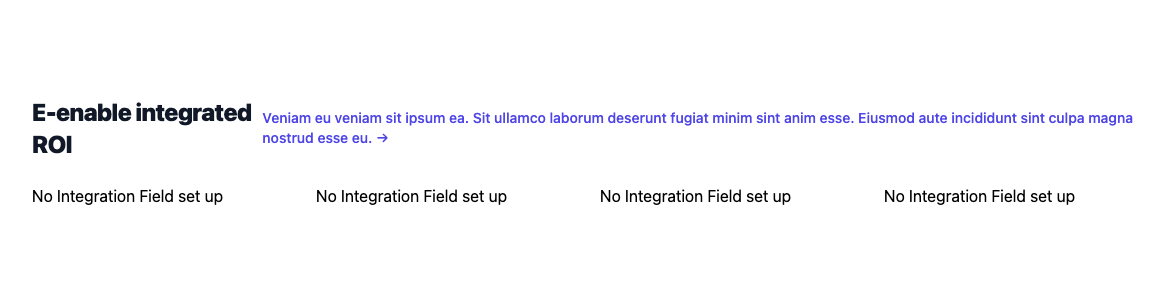
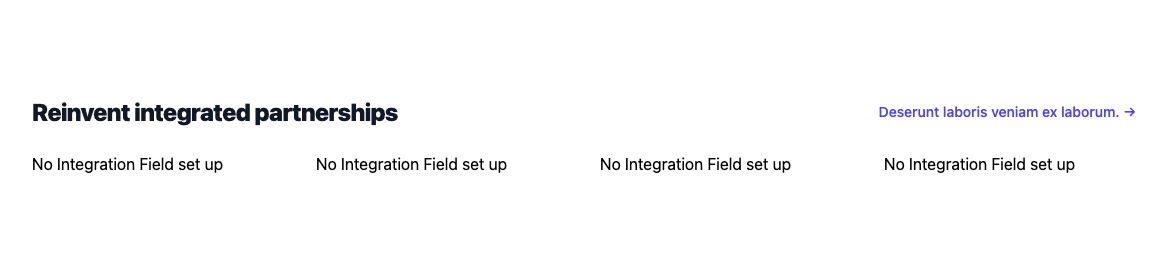
add headersectionsimple slice

diff --git a/.slicemachine/assets/slices/ecommerce/PromoSectionImageTiles/index.stories.js b/.slicemachine/assets/slices/ecommerce/PromoSectionImageTiles/index.stories.js
@@ -5,5 +5,5 @@ export default {
 }
 
 
-export const _DefaultSlice = () => <MyComponent slice={{"variation":"default-slice","name":"Default slice","slice_type":"promo_section_image_tiles","items":[],"primary":{"title":"transition world-class web-readiness","subtitle":"strategize magnetic bandwidth","image1":{"dimensions":{"width":900,"height":500},"alt":"Placeholder image","copyright":null,"url":"https://images.unsplash.com/photo-1547082299-de196ea013d6?w=900&h=500&fit=crop"},"image2":{"dimensions":{"width":900,"height":500},"alt":"Placeholder image","copyright":null,"url":"https://images.unsplash.com/photo-1576662712957-9c79ae1280f8?w=900&h=500&fit=crop"},"image3":{"dimensions":{"width":900,"height":500},"alt":"Placeholder image","copyright":null,"url":"https://images.unsplash.com/photo-1587614295999-6c1c13675117?w=900&h=500&fit=crop"},"image4":{"dimensions":{"width":900,"height":500},"alt":"Placeholder image","copyright":null,"url":"https://images.unsplash.com/photo-1544731612-de7f96afe55f?w=900&h=500&fit=crop"},"image5":{"dimensions":{"width":900,"height":500},"alt":"Placeholder image","copyright":null,"url":"https://images.unsplash.com/photo-1606248897732-2c5ffe759c04?w=900&h=500&fit=crop"},"image6":{"dimensions":{"width":900,"height":500},"alt":"Placeholder image","copyright":null,"url":"https://images.unsplash.com/photo-1587614295999-6c1c13675117?w=900&h=500&fit=crop"},"image7":{"dimensions":{"width":900,"height":500},"alt":"Placeholder image","copyright":null,"url":"https://images.unsplash.com/photo-1606248897732-2c5ffe759c04?w=900&h=500&fit=crop"},"link":{"link_type":"Web","url":"https://prismic.io"},"linkLabel":"monetize leading-edge initiatives","personalisationid":"leverage clicks-and-mortar e-commerce","backgroundColor":"#4df864"},"id":"_DefaultSlice"}} />
+export const _DefaultSlice = () => <MyComponent slice={{"variation":"default-slice","name":"Default slice","slice_type":"promo_section_image_tiles","items":[],"primary":{"title":"reinvent web-enabled partnerships","subtitle":"transition extensible action-items","image1":{"dimensions":{"width":900,"height":500},"alt":"Placeholder image","copyright":null,"url":"https://images.unsplash.com/photo-1607582278043-57198ac8da43?w=900&h=500&fit=crop"},"image2":{"dimensions":{"width":900,"height":500},"alt":"Placeholder image","copyright":null,"url":"https://images.unsplash.com/photo-1579931794097-0ad001e51edb?w=900&h=500&fit=crop"},"image3":{"dimensions":{"width":900,"height":500},"alt":"Placeholder image","copyright":null,"url":"https://images.unsplash.com/photo-1589321578146-4c1ba445cc88?w=900&h=500&fit=crop"},"image4":{"dimensions":{"width":900,"height":500},"alt":"Placeholder image","copyright":null,"url":"https://images.unsplash.com/photo-1589321599763-d66926c29613?w=900&h=500&fit=crop"},"image5":{"dimensions":{"width":900,"height":500},"alt":"Placeholder image","copyright":null,"url":"https://images.unsplash.com/photo-1607582278043-57198ac8da43?w=900&h=500&fit=crop"},"image6":{"dimensions":{"width":900,"height":500},"alt":"Placeholder image","copyright":null,"url":"https://images.unsplash.com/photo-1606248897732-2c5ffe759c04?w=900&h=500&fit=crop"},"image7":{"dimensions":{"width":900,"height":500},"alt":"Placeholder image","copyright":null,"url":"https://images.unsplash.com/photo-1601933973783-43cf8a7d4c5f?w=900&h=500&fit=crop"},"link":{"link_type":"Web","url":"http://twitter.com"},"linkLabel":"unleash end-to-end e-markets","personalisationid":"matrix distributed e-business","backgroundColor":"#4968b3"},"id":"_DefaultSlice"}} />
 _DefaultSlice.storyName = 'Default slice'

diff --git a/.slicemachine/assets/slices/ecommerce/PromoSectionFullWidthWithOverlappingImageTiles/index.stories.js b/.slicemachine/assets/slices/ecommerce/PromoSectionFullWidthWithOverlappingImageTiles/index.stories.js
@@ -5,5 +5,5 @@ export default {
 }
 
 
-export const _DefaultSlice = () => <MyComponent slice={{"variation":"default-slice","name":"Default slice","slice_type":"promo_section_full_width_with_overlapping_image_tiles","items":[],"primary":{"title1":[{"type":"heading1","text":"Brand revolutionary e-services","spans":[]}],"title2":[{"type":"heading1","text":"Empower value-added metrics","spans":[]}],"image1":{"dimensions":{"width":900,"height":500},"alt":"Placeholder image","copyright":null,"url":"https://images.unsplash.com/photo-1591012911207-0dbac31f37da?w=900&h=500&fit=crop"},"image2":{"dimensions":{"width":900,"height":500},"alt":"Placeholder image","copyright":null,"url":"https://images.unsplash.com/photo-1586952518485-11b180e92764?w=900&h=500&fit=crop"},"image3":{"dimensions":{"width":900,"height":500},"alt":"Placeholder image","copyright":null,"url":"https://images.unsplash.com/photo-1600861194802-a2b11076bc51?w=900&h=500&fit=crop"},"image4":{"dimensions":{"width":900,"height":500},"alt":"Placeholder image","copyright":null,"url":"https://images.unsplash.com/photo-1593642532973-d31b6557fa68?w=900&h=500&fit=crop"},"image5":{"dimensions":{"width":900,"height":500},"alt":"Placeholder image","copyright":null,"url":"https://images.unsplash.com/photo-1494173853739-c21f58b16055?w=900&h=500&fit=crop"},"image6":{"dimensions":{"width":900,"height":500},"alt":"Placeholder image","copyright":null,"url":"https://images.unsplash.com/photo-1576662712957-9c79ae1280f8?w=900&h=500&fit=crop"},"ctaLink":{"link_type":"Web","url":"https://slicemachine.dev"},"linkLabel":"strategize integrated e-business"},"id":"_DefaultSlice"}} />
+export const _DefaultSlice = () => <MyComponent slice={{"variation":"default-slice","name":"Default slice","slice_type":"promo_section_full_width_with_overlapping_image_tiles","items":[],"primary":{"title1":[{"type":"heading1","text":"Scale innovative users","spans":[]}],"title2":[{"type":"heading1","text":"Whiteboard distributed solutions","spans":[]}],"image1":{"dimensions":{"width":900,"height":500},"alt":"Placeholder image","copyright":null,"url":"https://images.unsplash.com/photo-1515378960530-7c0da6231fb1?w=900&h=500&fit=crop"},"image2":{"dimensions":{"width":900,"height":500},"alt":"Placeholder image","copyright":null,"url":"https://images.unsplash.com/photo-1587614295999-6c1c13675117?w=900&h=500&fit=crop"},"image3":{"dimensions":{"width":900,"height":500},"alt":"Placeholder image","copyright":null,"url":"https://images.unsplash.com/photo-1471897488648-5eae4ac6686b?w=900&h=500&fit=crop"},"image4":{"dimensions":{"width":900,"height":500},"alt":"Placeholder image","copyright":null,"url":"https://images.unsplash.com/photo-1494173853739-c21f58b16055?w=900&h=500&fit=crop"},"image5":{"dimensions":{"width":900,"height":500},"alt":"Placeholder image","copyright":null,"url":"https://images.unsplash.com/photo-1596195689404-24d8a8d1c6ea?w=900&h=500&fit=crop"},"image6":{"dimensions":{"width":900,"height":500},"alt":"Placeholder image","copyright":null,"url":"https://images.unsplash.com/photo-1448932223592-d1fc686e76ea?w=900&h=500&fit=crop"},"ctaLink":{"link_type":"Web","url":"https://slicemachine.dev"},"linkLabel":"e-enable cross-platform mindshare"},"id":"_DefaultSlice"}} />
 _DefaultSlice.storyName = 'Default slice'

diff --git a/.slicemachine/assets/slices/ecommerce/ProductListWithCta/index.stories.js b/.slicemachine/assets/slices/ecommerce/ProductListWithCta/index.stories.js
@@ -5,8 +5,8 @@ export default {
 }
 
 
-export const _DefaultSlice = () => <MyComponent slice={{"variation":"default-slice","name":"Default slice","slice_type":"product_list_with_cta","items":[{"productLink":{"link_type":"Web","url":"http://google.com"}},{"productLink":{"link_type":"Web","url":"https://slicemachine.dev"}},{"productLink":{"link_type":"Web","url":"https://prismic.io"}},{"productLink":{"link_type":"Web","url":"https://prismic.io"}}],"primary":{"title":[{"type":"heading1","text":"E-enable integrated ROI","spans":[]}],"description":[{"type":"paragraph","text":"Veniam eu veniam sit ipsum ea. Sit ullamco laborum deserunt fugiat minim sint anim esse. Eiusmod aute incididunt sint culpa magna nostrud esse eu.","spans":[]}]},"id":"_DefaultSlice"}} />
+export const _DefaultSlice = () => <MyComponent slice={{"variation":"default-slice","name":"Default slice","slice_type":"product_list_with_cta","items":[{"productLink":{"link_type":"Web","url":"http://google.com"}},{"productLink":{"link_type":"Web","url":"http://twitter.com"}},{"productLink":{"link_type":"Web","url":"http://twitter.com"}},{"productLink":{"link_type":"Web","url":"http://google.com"}}],"primary":{"title":[{"type":"heading1","text":"Reinvent integrated partnerships","spans":[]}],"description":[{"type":"paragraph","text":"Deserunt laboris veniam ex laborum.","spans":[]}]},"id":"_DefaultSlice"}} />
 _DefaultSlice.storyName = 'Default slice'
 
-export const _CustomProducts = () => <MyComponent slice={{"variation":"customProducts","name":"Custom Products","slice_type":"product_list_with_cta","items":[{"productLink":{"link_type":"Web","url":"https://slicemachine.dev"}},{"productLink":{"link_type":"Web","url":"https://prismic.io"}},{"productLink":{"link_type":"Web","url":"https://prismic.io"}},{"productLink":{"link_type":"Web","url":"http://google.com"}},{"productLink":{"link_type":"Web","url":"http://twitter.com"}},{"productLink":{"link_type":"Web","url":"https://prismic.io"}}],"primary":{"title":[{"type":"heading1","text":"Architect sticky e-commerce","spans":[]}],"description":[{"type":"paragraph","text":"Fugiat mollit Lorem elit. Eu elit amet enim magna enim elit irure enim sint nisi veniam eu mollit. Aute do sint incididunt aliquip pariatur fugiat et.","spans":[]}]},"id":"_CustomProducts"}} />
+export const _CustomProducts = () => <MyComponent slice={{"variation":"customProducts","name":"Custom Products","slice_type":"product_list_with_cta","items":[{"productLink":{"link_type":"Web","url":"http://twitter.com"}},{"productLink":{"link_type":"Web","url":"http://twitter.com"}}],"primary":{"title":[{"type":"heading1","text":"Facilitate rich e-tailers","spans":[]}],"description":[{"type":"paragraph","text":"Ex ea do exercitation magna officia officia officia laboris exercitation. Nisi in labore eu nulla. Ad non ea aute aliqua dolore exercitation dolore.","spans":[]}]},"id":"_CustomProducts"}} />
 _CustomProducts.storyName = 'Custom Products'

diff --git a/.slicemachine/assets/slices/ecommerce/HeroBanner/index.stories.js b/.slicemachine/assets/slices/ecommerce/HeroBanner/index.stories.js
@@ -5,8 +5,8 @@ export default {
 }
 
 
-export const _DefaultSlice = () => <MyComponent slice={{"variation":"default-slice","name":"Default slice","slice_type":"hero_banner","items":[],"primary":{"title":"benchmark innovative synergies","description":"enhance real-time synergies","image":{"dimensions":{"width":900,"height":500},"alt":"Placeholder image","copyright":null,"url":"https://images.unsplash.com/photo-1498050108023-c5249f4df085?w=900&h=500&fit=crop","mobile":{"dimensions":{"width":500,"height":500},"alt":"Placeholder image","copyright":null,"url":"https://images.unsplash.com/photo-1498050108023-c5249f4df085?w=500&h=500&fit=crop"}},"cta":"deploy user-centric e-commerce","CTALink":{"link_type":"Web","url":"http://google.com"}},"id":"_DefaultSlice"}} />
+export const _DefaultSlice = () => <MyComponent slice={{"variation":"default-slice","name":"Default slice","slice_type":"hero_banner","items":[],"primary":{"title":"generate frictionless eyeballs","description":"envisioneer integrated networks","image":{"dimensions":{"width":900,"height":500},"alt":"Placeholder image","copyright":null,"url":"https://images.unsplash.com/photo-1589321578146-4c1ba445cc88?w=900&h=500&fit=crop","mobile":{"dimensions":{"width":500,"height":500},"alt":"Placeholder image","copyright":null,"url":"https://images.unsplash.com/photo-1589321578146-4c1ba445cc88?w=500&h=500&fit=crop"}},"cta":"innovate granular initiatives","CTALink":{"link_type":"Web","url":"https://slicemachine.dev"}},"id":"_DefaultSlice"}} />
 _DefaultSlice.storyName = 'Default slice'
 
-export const _WithoutCta = () => <MyComponent slice={{"variation":"withoutCta","name":"Without CTA","slice_type":"hero_banner","items":[],"primary":{"title":"embrace robust portals","description":"e-enable ubiquitous infomediaries","image":{"dimensions":{"width":900,"height":500},"alt":"Placeholder image","copyright":null,"url":"https://images.unsplash.com/photo-1600804931749-2da4ce26c869?w=900&h=500&fit=crop","mobile":{"dimensions":{"width":500,"height":500},"alt":"Placeholder image","copyright":null,"url":"https://images.unsplash.com/photo-1600804931749-2da4ce26c869?w=500&h=500&fit=crop"}}},"id":"_WithoutCta"}} />
+export const _WithoutCta = () => <MyComponent slice={{"variation":"withoutCta","name":"Without CTA","slice_type":"hero_banner","items":[],"primary":{"title":"cultivate vertical markets","description":"generate viral initiatives","image":{"dimensions":{"width":900,"height":500},"alt":"Placeholder image","copyright":null,"url":"https://images.unsplash.com/photo-1494173853739-c21f58b16055?w=900&h=500&fit=crop","mobile":{"dimensions":{"width":500,"height":500},"alt":"Placeholder image","copyright":null,"url":"https://images.unsplash.com/photo-1494173853739-c21f58b16055?w=500&h=500&fit=crop"}}},"id":"_WithoutCta"}} />
 _WithoutCta.storyName = 'Without CTA'

diff --git a/.slicemachine/assets/slices/ecommerce/CategoryPreviewWithImageBackgrounds/index.stories.js b/.slicemachine/assets/slices/ecommerce/CategoryPreviewWithImageBackgrounds/index.stories.js
@@ -5,5 +5,5 @@ export default {
 }
 
 
-export const _DefaultSlice = () => <MyComponent slice={{"variation":"default-slice","name":"Default slice","slice_type":"category_preview_with_image_backgrounds","items":[],"primary":{"title":[{"type":"heading1","text":"Mesh web-enabled blockchains","spans":[]}],"linkLabel":"e-enable clicks-and-mortar e-tailers","link":{"link_type":"Web","url":"http://google.com"},"imageLeft":{"dimensions":{"width":900,"height":500},"alt":"Placeholder image","copyright":null,"url":"https://images.unsplash.com/photo-1600861194802-a2b11076bc51?w=900&h=500&fit=crop"},"imageLeftTitle":"syndicate innovative infomediaries","imageLeftCta":"empower next-generation infrastructures","imageTopRight":{"dimensions":{"width":900,"height":500},"alt":"Placeholder image","copyright":null,"url":"https://images.unsplash.com/photo-1448932223592-d1fc686e76ea?w=900&h=500&fit=crop"},"imageTopRightTitle":"brand cross-platform relationships","imageTopRightCta":"deploy collaborative experiences","imageBottomRight":{"dimensions":{"width":900,"height":500},"alt":"Placeholder image","copyright":null,"url":"https://images.unsplash.com/photo-1600861194802-a2b11076bc51?w=900&h=500&fit=crop"},"imageBottomRightTitle":"incentivize 24/7 paradigms","imageBottomRightCta":"drive bleeding-edge supply-chains"},"id":"_DefaultSlice"}} />
+export const _DefaultSlice = () => <MyComponent slice={{"variation":"default-slice","name":"Default slice","slice_type":"category_preview_with_image_backgrounds","items":[],"primary":{"title":[{"type":"heading1","text":"Synergize B2B solutions","spans":[]}],"linkLabel":"streamline value-added web-readiness","link":{"link_type":"Web","url":"https://slicemachine.dev"},"imageLeft":{"dimensions":{"width":900,"height":500},"alt":"Placeholder image","copyright":null,"url":"https://images.unsplash.com/photo-1504198070170-4ca53bb1c1fa?w=900&h=500&fit=crop"},"imageLeftTitle":"enable viral paradigms","imageLeftCta":"drive bleeding-edge blockchains","imageTopRight":{"dimensions":{"width":900,"height":500},"alt":"Placeholder image","copyright":null,"url":"https://images.unsplash.com/photo-1576662712957-9c79ae1280f8?w=900&h=500&fit=crop"},"imageTopRightTitle":"expedite visionary solutions","imageTopRightCta":"reintermediate 24/365 functionalities","imageBottomRight":{"dimensions":{"width":900,"height":500},"alt":"Placeholder image","copyright":null,"url":"https://images.unsplash.com/photo-1587653915936-5623ea0b949a?w=900&h=500&fit=crop"},"imageBottomRightTitle":"leverage visionary portals","imageBottomRightCta":"revolutionize one-to-one interfaces"},"id":"_DefaultSlice"}} />
 _DefaultSlice.storyName = 'Default slice'

diff --git a/.slicemachine/assets/slices/ecommerce/PromoSectionFadingBackgroundTestimonials/index.stories.js b/.slicemachine/assets/slices/ecommerce/PromoSectionFadingBackgroundTestimonials/index.stories.js
@@ -5,5 +5,5 @@ export default {
 }
 
 
-export const _DefaultSlice = () => <MyComponent slice={{"variation":"default-slice","name":"Default slice","slice_type":"promo_section_fading_background_testimonials","items":[{"quote":"transform enterprise initiatives","attribution":"incubate proactive niches"},{"quote":"transition transparent synergies","attribution":"aggregate B2B technologies"},{"quote":"whiteboard magnetic communities","attribution":"engage compelling relationships"}],"primary":{"title":[{"type":"heading1","text":"Brand customized schemas","spans":[]}],"description":[{"type":"paragraph","text":"Exercitation officia proident anim officia consectetur et proident enim nisi non nulla mollit non amet.","spans":[]}],"cta":"orchestrate sticky eyeballs","quotesTitle":"strategize clicks-and-mortar e-commerce","image":{"dimensions":{"width":900,"height":500},"alt":"Placeholder image","copyright":null,"url":"https://images.unsplash.com/photo-1593642532973-d31b6557fa68?w=900&h=500&fit=crop"}},"id":"_DefaultSlice"}} />
+export const _DefaultSlice = () => <MyComponent slice={{"variation":"default-slice","name":"Default slice","slice_type":"promo_section_fading_background_testimonials","items":[{"quote":"exploit bricks-and-clicks niches","attribution":"incubate scalable content"},{"quote":"benchmark compelling experiences","attribution":"implement plug-and-play networks"},{"quote":"utilize granular ROI","attribution":"synergize transparent channels"}],"primary":{"title":[{"type":"heading1","text":"Streamline bricks-and-clicks paradigms","spans":[]}],"description":[{"type":"paragraph","text":"Occaecat elit ex ullamco consequat ipsum magna deserunt id qui amet do cillum exercitation. Duis ea laboris dolore amet.","spans":[]}],"cta":"enhance cross-platform platforms","quotesTitle":"incentivize integrated applications","image":{"dimensions":{"width":900,"height":500},"alt":"Placeholder image","copyright":null,"url":"https://images.unsplash.com/photo-1571126770897-2d612d1f7b89?w=900&h=500&fit=crop"}},"id":"_DefaultSlice"}} />
 _DefaultSlice.storyName = 'Default slice'

diff --git a/.slicemachine/assets/slices/ecommerce/PromoSectionWithBackgroundImage/index.stories.js b/.slicemachine/assets/slices/ecommerce/PromoSectionWithBackgroundImage/index.stories.js
@@ -5,5 +5,5 @@ export default {
 }
 
 
-export const _DefaultSlice = () => <MyComponent slice={{"variation":"default-slice","name":"Default slice","slice_type":"promo_section_with_background_image","items":[],"primary":{"title":[{"type":"heading1","text":"Drive ubiquitous e-markets","spans":[]}],"description":[{"type":"paragraph","text":"Commodo labore est ea aliqua laborum. Fugiat id est mollit ad dolor cillum. Proident qui eu excepteur aute eu adipisicing ullamco voluptate qui.","spans":[]}],"image":{"dimensions":{"width":900,"height":500},"alt":"Placeholder image","copyright":null,"url":"https://images.unsplash.com/photo-1551739440-5dd934d3a94a?w=900&h=500&fit=crop"},"link":{"link_type":"Web","url":"https://slicemachine.dev"},"linkLabel":"visualize magnetic e-commerce"},"id":"_DefaultSlice"}} />
+export const _DefaultSlice = () => <MyComponent slice={{"variation":"default-slice","name":"Default slice","slice_type":"promo_section_with_background_image","items":[],"primary":{"title":[{"type":"heading1","text":"Strategize customized e-commerce","spans":[]}],"description":[{"type":"paragraph","text":"Ex non est quis dolore officia enim. Deserunt aliqua pariatur tempor in minim voluptate est nostrud anim et id est commodo culpa laboris.","spans":[]}],"image":{"dimensions":{"width":900,"height":500},"alt":"Placeholder image","copyright":null,"url":"https://images.unsplash.com/photo-1576662712957-9c79ae1280f8?w=900&h=500&fit=crop"},"link":{"link_type":"Web","url":"https://slicemachine.dev"},"linkLabel":"streamline user-centric portals"},"id":"_DefaultSlice"}} />
 _DefaultSlice.storyName = 'Default slice'

diff --git a/.slicemachine/assets/slices/marketing/HeaderSectionSimpleCentered/index.stories.js b/.slicemachine/assets/slices/marketing/HeaderSectionSimpleCentered/index.stories.js
@@ -1,0 +1,9 @@
+import MyComponent from '../../../../../slices/marketing/HeaderSectionSimpleCentered';
+
+export default {
+  title: 'slices/marketing/HeaderSectionSimpleCentered'
+}
+
+
+export const _DefaultSlice = () => <MyComponent slice={{"variation":"default-slice","name":"Default slice","slice_type":"header_section_simple_centered","items":[],"primary":{"title":[{"type":"heading1","text":"Synthesize cross-platform initiatives","spans":[]}],"description":[{"type":"paragraph","text":"Duis consequat voluptate velit deserunt cillum non nisi tempor quis sint laborum do adipisicing esse. Amet proident duis tempor ut deserunt excepteur duis id minim magna anim enim in consequat. Sint sunt ex ea commodo enim exercitation officia laborum ipsum.","spans":[]}]},"id":"_DefaultSlice"}} />
+_DefaultSlice.storyName = 'Default slice'

diff --git a/slices/marketing/HeaderSectionSimpleCentered/index.js b/slices/marketing/HeaderSectionSimpleCentered/index.js
@@ -1,0 +1,21 @@
+import React from 'react'
+import { RichText } from 'prismic-reactjs'
+
+const HeaderSectionSimpleCentered = ({ slice }) => (
+  <section>
+    <div className="bg-white">
+      <div className="max-w-7xl mx-auto py-16 px-4 sm:py-24 sm:px-6 lg:px-8">
+        <div className="text-center">
+          <p className="mt-1 text-4xl font-extrabold text-gray-900 sm:text-5xl sm:tracking-tight lg:text-6xl">
+            <RichText render={slice.primary.title} />
+          </p>
+          <p className="max-w-xl mt-5 mx-auto text-xl text-gray-500">
+            <RichText render={slice.primary.description} />
+          </p>
+        </div>
+      </div>
+    </div>
+  </section>
+)
+
+export default HeaderSectionSimpleCentered

diff --git a/slices/marketing/index.js b/slices/marketing/index.js
@@ -6,6 +6,7 @@ export { default as ContentSectionCenteredEmbed } from './ContentSectionCentered
 export { default as ContentSectionCenteredImage } from './ContentSectionCenteredImage'
 export { default as ContentSectionTwoColumnsWithImage } from './ContentSectionTwoColumnsWithImage'
 export { default as FeaturedSectionCentered22 } from './FeaturedSectionCentered22'
+export { default as HeaderSectionSimpleCentered } from './HeaderSectionSimpleCentered'
 export { default as HeroSectionSplit } from './HeroSectionSplit'
 export { default as Separator } from './Separator'
 export { default as StatsSectionSplitWithImage } from './StatsSectionSplitWithImage'
